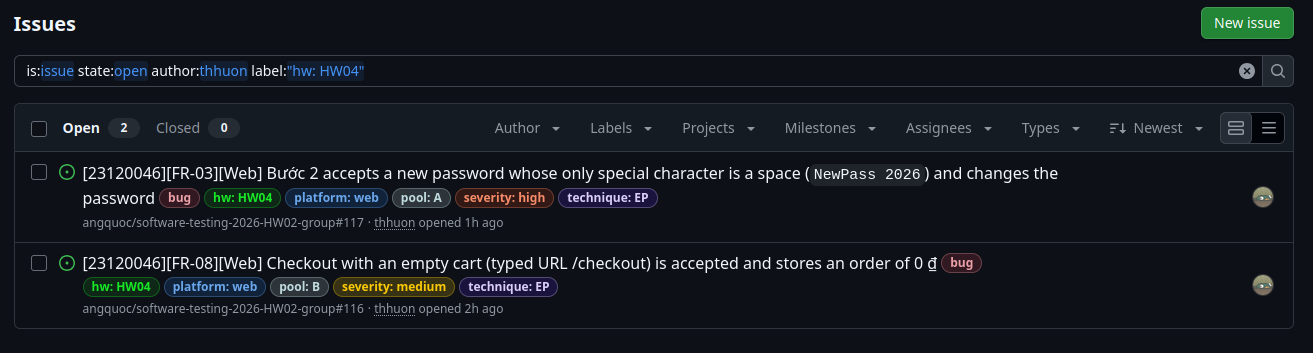
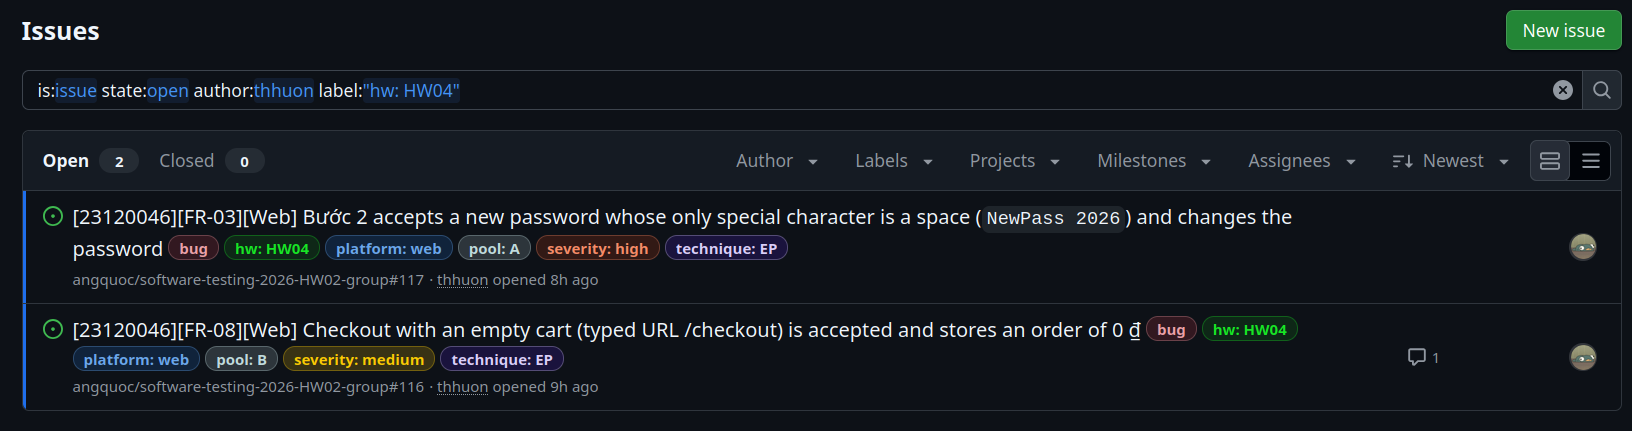
docs (bugs): confirm the BUG-02 severity and update the Issues page screenshot

diff --git a/bugs/BUG_REPORT.md b/bugs/BUG_REPORT.md
@@ -6,7 +6,7 @@
 | Issue tracker | [angquoc/software-testing-2026-HW02-group](https://github.com/angquoc/software-testing-2026-HW02-group/issues) – rules: group README §4 (template, title, labels) and §6 (HW04: comment on HW02 issues, new issues with label `hw: HW04`) |
 | Earlier bug reports matched | HW02 `bugs/BUG_REPORT.md` (BUG-01 … BUG-41 = issues #1 … #41) |
 | Reporter | HỒ THÙY HƯƠNG – 23120046 |
-| Proof (Issues page) | [issues-label-hw04.png](screenshots/issues-label-hw04.png) – filter `is:issue state:open author:thhuon label:"hw: HW04"`, 17/11/2026 22:35: #117 (FR-03), #116 (FR-08). Commented HW02 issues: links in the overview; FR-08 comments (18/11/2026): [#12](screenshots/checkout_comment_12.png), [#13](screenshots/checkout_comment_13.png), [#14](screenshots/checkout_comment_14.png), [#15](screenshots/checkout_comment_15.png), [#16](screenshots/checkout_comment_16.png), [#17](screenshots/checkout_comment_17.png), [#116](screenshots/checkout_comment_116.png), [#80](screenshots/checkout_comment_80.png) |
+| Proof (Issues page) | [issues-label-hw04.png](screenshots/issues-label-hw04.png) – filter `is:issue state:open author:thhuon label:"hw: HW04"`, 18/11/2026 05:30: #117 (FR-03), #116 (FR-08). Commented HW02 issues: links in the overview; FR-08 comments (18/11/2026): [#12](screenshots/checkout_comment_12.png), [#13](screenshots/checkout_comment_13.png), [#14](screenshots/checkout_comment_14.png), [#15](screenshots/checkout_comment_15.png), [#16](screenshots/checkout_comment_16.png), [#17](screenshots/checkout_comment_17.png), [#116](screenshots/checkout_comment_116.png), [#80](screenshots/checkout_comment_80.png) |
 | Count | Bugs: 39 · Confirmed: 33 · Changed: 4 · New: 2 |
 
 ## 1. Severity / priority scale
@@ -31,7 +31,7 @@ Copied from the group README §4.3 (first "yes" wins).
 | Bug ID | Requirement | Title | Found by (spec › test, data row) | Browsers failing | Outcome | Tracker | Severity / Priority |
 | --- | --- | --- | --- | --- | --- | --- | --- |
 | [BUG-01](#bug-01) | FR-08 (HW02 fB A6, decision Q4) | Checkout with an empty cart (typed URL `/checkout`) is accepted and stores an order of 0 ₫ | checkout DT-07 (T2 check through the page objects; spec in T4) | Chromium, Firefox, WebKit | New | [#116](https://github.com/angquoc/software-testing-2026-HW02-group/issues/116) | Medium / Medium (SV xác nhận 17/11) |
-| [BUG-02](#bug-02) | FR-03, FR-01 | Bước 2 accepts a new password whose only special character is a space (`NewPass 2026`) and changes the password | `tests/forgot-password/web.spec.ts` › "DT-35 – special character only outside the set (space)", data row `DT-35` in `data/forgot-password/web.json` (domain testing EC-V4-10, added in HW04) | Chromium, Firefox, WebKit | New | [#117](https://github.com/angquoc/software-testing-2026-HW02-group/issues/117) | High / High (proposed – to be confirmed) |
+| [BUG-02](#bug-02) | FR-03, FR-01 | Bước 2 accepts a new password whose only special character is a space (`NewPass 2026`) and changes the password | `tests/forgot-password/web.spec.ts` › "DT-35 – special character only outside the set (space)", data row `DT-35` in `data/forgot-password/web.json` (domain testing EC-V4-10, added in HW04) | Chromium, Firefox, WebKit | New | [#117](https://github.com/angquoc/software-testing-2026-HW02-group/issues/117) | High / High |
 | [BUG-03](#bug-03) | FR-03, FR-01 | Bước 2 on the Web refuses every new password, also a valid one | `web.spec.ts` › DT-04, DT-05, DT-06, BVA-04, BVA-05 (rows of `data/forgot-password/web.json`) | Chromium, Firefox, WebKit | Changed #1 | [comment on #1](https://github.com/angquoc/software-testing-2026-HW02-group/issues/1#issuecomment-6950008056) | Critical / High (from #1) |
 | [BUG-04](#bug-04) | FR-03 | OTP has 4 digits instead of 6 | `web.spec.ts` › DT-01, DT-02 | Chromium, Firefox, WebKit | Confirmed #3 | [comment on #3](https://github.com/angquoc/software-testing-2026-HW02-group/issues/3#issuecomment-6950009329) | High / High (from #3) |
 | [BUG-05](#bug-05) | FR-03 | Bước 2 has no "Xác nhận mật khẩu mới" field | `web.spec.ts` › DT-01, DT-28, DT-29, DT-30 | Chromium, Firefox, WebKit | Confirmed #4 | [comment on #4](https://github.com/angquoc/software-testing-2026-HW02-group/issues/4#issuecomment-6950010734) | Medium / Medium (from #4) |
@@ -109,7 +109,7 @@ Outcome: `Confirmed #n` (same behaviour as the existing issue) · `Changed #n` (
 | Notes | Masked by BUG-03 (#1) on the Web: a new password that meets FR-01 is always refused, so the reset only succeeds with a password that breaks FR-01 such as `NewPass 2026`. The page itself shows no success message; the only feedback is a browser `alert` "Đổi mật khẩu thành công!" and the move to the login page (trace viewer, student 17/11) |
 | Outcome | New. Rejected candidates: #1 (the Web refuses valid passwords – the opposite behaviour, same requirement sentence), #2 (the reset **API** accepts weak passwords; here the Web's own check lets the password through), #42 / #49 (FR-01 registration, another feature). Related: #1, #2 |
 | Tracker | [#117](https://github.com/angquoc/software-testing-2026-HW02-group/issues/117) – filed 17/11/2026 by thhuon, labels `severity: high`, `platform: web`, `technique: EP`, `pool: A`, `hw: HW04`; screenshots in the issue |
-| Severity / Priority | High / High (proposed – to be confirmed) |
+| Severity / Priority | High / High |
 
 ### BUG-03
 

diff --git a/HW04_Report.md b/HW04_Report.md
@@ -199,7 +199,7 @@ Full report: [bugs/BUG_REPORT.md](bugs/BUG_REPORT.md) – **39 bugs: 33 Confirme
 
 | Bug | Issue | Outcome | Tests | Severity / Priority |
 | --- | --- | --- | --- | --- |
-| [BUG-02](bugs/BUG_REPORT.md#bug-02) – Bước 2 accepts a new password whose only special character is a space (`NewPass 2026`) and changes the password | [#117](https://github.com/angquoc/software-testing-2026-HW02-group/issues/117) | New | `web.spec.ts` › "DT-35 – special character only outside the set (space)" | High / High (proposed – to be confirmed) |
+| [BUG-02](bugs/BUG_REPORT.md#bug-02) – Bước 2 accepts a new password whose only special character is a space (`NewPass 2026`) and changes the password | [#117](https://github.com/angquoc/software-testing-2026-HW02-group/issues/117) | New | `web.spec.ts` › "DT-35 – special character only outside the set (space)" | High / High |
 | [BUG-03](bugs/BUG_REPORT.md#bug-03) – Bước 2 on the Web refuses every new password, also a valid one | [comment on #1](https://github.com/angquoc/software-testing-2026-HW02-group/issues/1#issuecomment-6950008056) | Changed #1 | `web.spec.ts` › DT-04, DT-05, DT-06, BVA-04, BVA-05 | Critical / High (from #1) |
 | [BUG-04](bugs/BUG_REPORT.md#bug-04) – OTP has 4 digits instead of 6 | [comment on #3](https://github.com/angquoc/software-testing-2026-HW02-group/issues/3#issuecomment-6950009329) | Confirmed #3 | `web.spec.ts` › DT-01, DT-02 | High / High (from #3) |
 | [BUG-05](bugs/BUG_REPORT.md#bug-05) – Bước 2 has no "Xác nhận mật khẩu mới" field | [comment on #4](https://github.com/angquoc/software-testing-2026-HW02-group/issues/4#issuecomment-6950010734) | Confirmed #4 | `web.spec.ts` › DT-01, DT-28, DT-29, DT-30 | Medium / Medium (from #4) |
